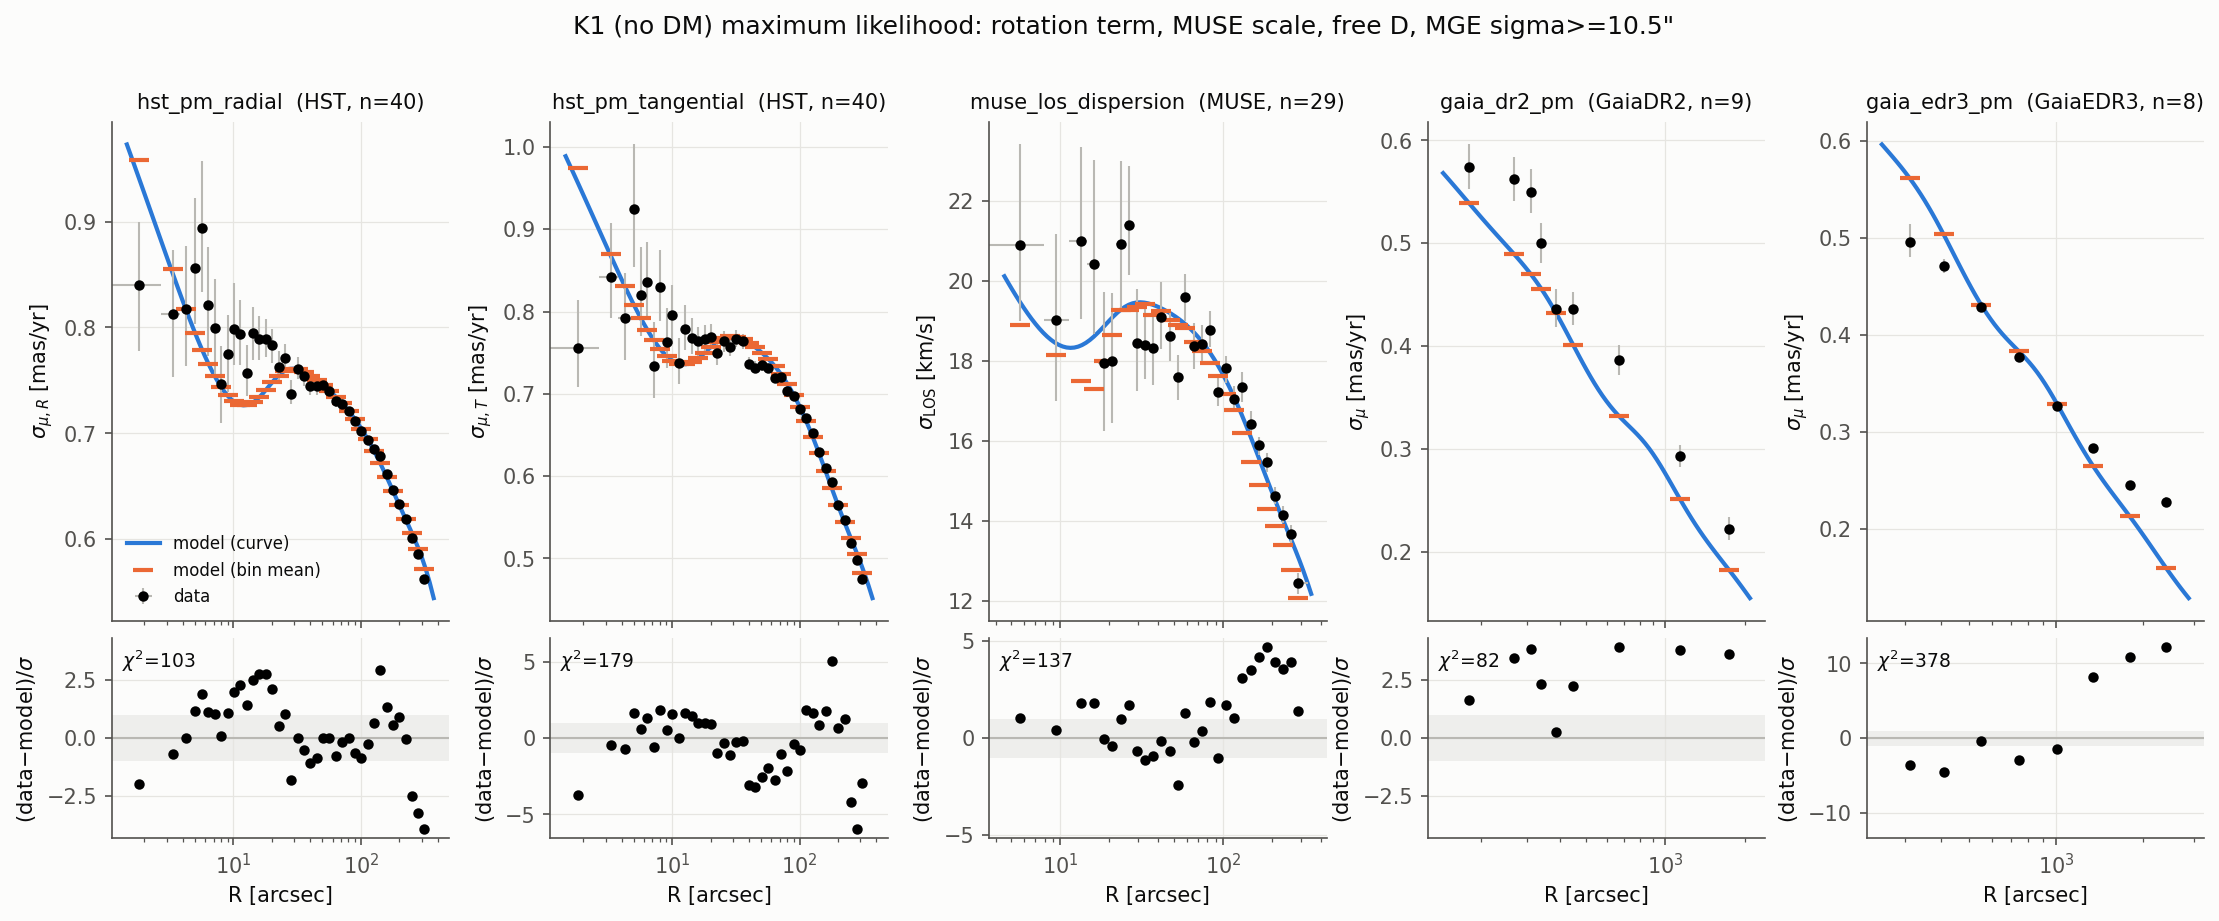
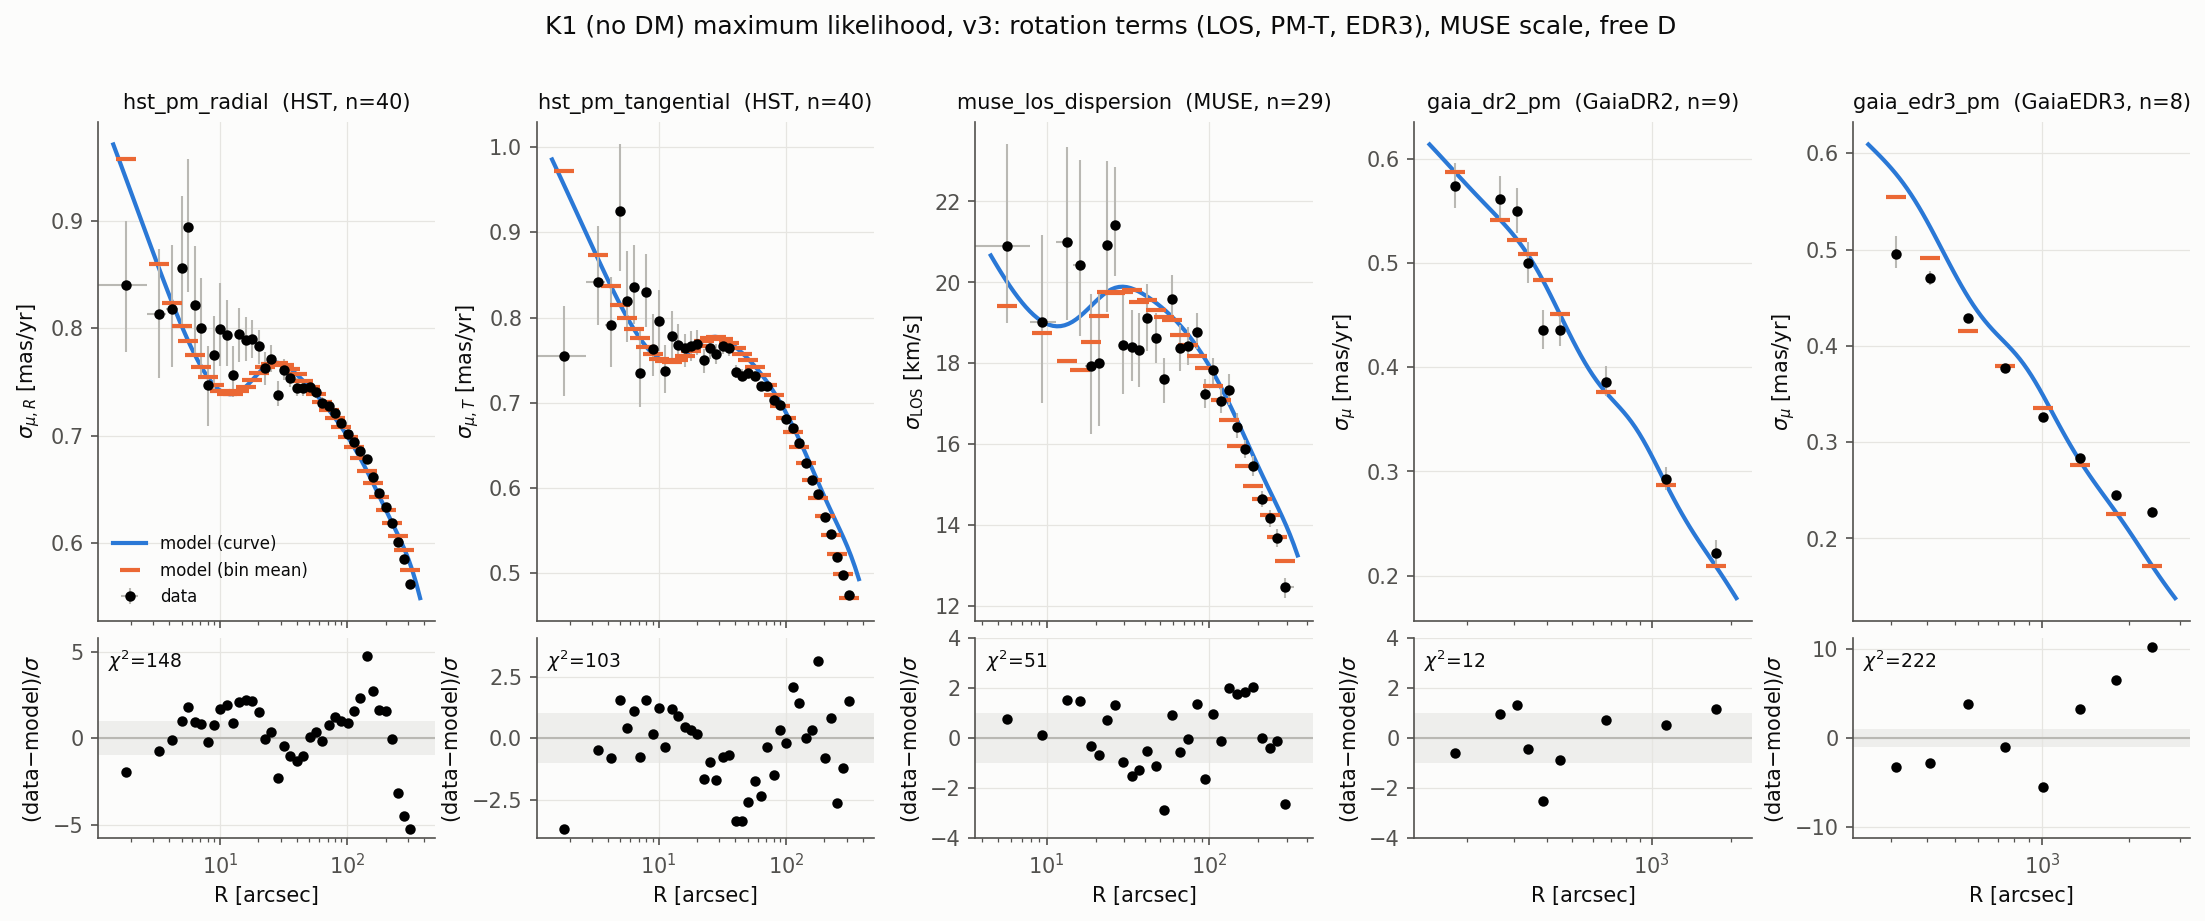
PM rotation terms from the Vasiliev & Baumgardt 2021 rotation curve (HST tangential, Gaia EDR3); posterior-profile plot; journal

diff --git a/src/ocen_dm/kinematics/likelihood.py b/src/ocen_dm/kinematics/likelihood.py
@@ -111,6 +111,20 @@ class BinnedProfile:
 
 
 # ----------------------------------------------------------------- loading ---
+def pm_rotation_curve(r_arcsec: np.ndarray) -> np.ndarray:
+    """Mean tangential proper motion of the rotating cluster at projected radius ``r``.
+
+    Interpolated (linearly, in mas/yr) from the Vasiliev & Baumgardt (2021) EDR3
+    profile of "the rotational PM component" (their readme), i.e. the azimuthally
+    averaged mean tangential PM per annulus: 0 at the centre, peaking at
+    0.25 mas/yr near 430 arcsec, 0.02 mas/yr by 2000 arcsec. Used as ``<mu_T>``;
+    the streaming term ``<mu_T^2>`` >= ``<mu_T>^2`` is therefore a lower bound
+    when the rotation axis is not in the plane of the sky.
+    """
+    t = Table.read(processed_dir() / "kinematics" / "vasiliev2021_ocen_pm_profiles.ecsv")
+    return np.interp(np.asarray(r_arcsec, float), np.asarray(t["r"], float), np.asarray(t["vrot_pm"], float))
+
+
 def _asym(t: Table, base: str) -> tuple[np.ndarray, np.ndarray]:
     return np.asarray(t[f"{base}_err_lo"], float), np.asarray(t[f"{base}_err_hi"], float)
 
@@ -130,10 +144,15 @@ def _omegacat(name: str, value: str, kind: str, shares: tuple[str, ...]) -> Binn
             raise ValueError("los_rotation and los_dispersion products are not on the same bins")
         streaming2 = 0.5 * np.asarray(rot["v_rot"], float) ** 2
         note += "; dispersion about the fitted rotation curve, <vbar^2> = v_rot^2/2 added to the model"
-    elif kind != "los":
-        note += ("; PMs are 'locally corrected' (local mean removed), so the PM rotation term "
-                 "is NOT available from this catalogue (measured mean mu_T = 0 +- 0.005 mas/yr per "
-                 "annulus, 2026-09-17); expected size ~2 per cent in sigma_T at 100-300 arcsec")
+    elif kind == "pmt":
+        # The catalogue PMs are 'locally corrected' (local mean removed; measured mean
+        # mu_T = 0 +- 0.005 mas/yr per annulus, 2026-09-17), so sigma_pmt is a dispersion
+        # about the rotating mean. The rotation itself comes from the Vasiliev &
+        # Baumgardt (2021) EDR3 rotation curve, evaluated at the bin median radius.
+        streaming2 = pm_rotation_curve(np.asarray(t["r_median"], float)) ** 2
+        note += "; <mu_T>^2 from the Vasiliev & Baumgardt 2021 PM rotation curve added to the model"
+    elif kind == "pmr":
+        note += "; radial PM carries no rotation term (rotation is tangential)"
     return BinnedProfile(
         name=f"hst_{name}" if kind != "los" else "muse_los_dispersion", kind=kind,
         r=np.asarray(t["r_median"], float), r_lower=np.asarray(t["r_lower"], float),
@@ -150,8 +169,11 @@ def _baumgardt2019() -> BinnedProfile:
         value=np.asarray(t["sigma_pm"], float), err_lo=np.asarray(t["sigma_pm_err_lo"], float),
         err_hi=np.asarray(t["sigma_pm_err_hi"], float), instrument="GaiaDR2",
         shares_stars_with=("gaia_edr3_pm",),
-        note="mean radius only, no bin edges; ASSUMED to be the 1-D PM dispersion -- verify "
-             "against Baumgardt+ 2019 section 3 before publication",
+        note="mean radius only, no bin edges; ASSUMED to be the 1-D PM dispersion (fitted scale "
+             "~0.9-1.0, not 1.4, supports this); whether it was fitted about a rotating mean is "
+             "unknown from the local files -- NO rotation term applied; if the published values "
+             "include rotation this is correct, otherwise the model is biased high by up to "
+             "vrot^2/2 (~10 per cent of sigma^2 at 700 arcsec)",
     )
 
 
@@ -172,14 +194,17 @@ def _vasiliev2021(r_min_arcsec: float = 0.0, n_max: int | None = 8) -> BinnedPro
         targets = np.geomspace(r[keep][0], r[keep][-1], n_max)
         keep = np.unique(keep[np.abs(np.log(r[keep])[:, None] - np.log(targets)[None, :]).argmin(axis=0)])
     thinned = n_max is not None
+    vrot = np.asarray(t["vrot_pm"], float)[keep]
     return BinnedProfile(
         name="gaia_edr3_pm", kind="pmc", r=r[keep], r_lower=None, r_upper=None,
         value=s50[keep], err_lo=lo[keep], err_hi=hi[keep], instrument="GaiaEDR3",
         shares_stars_with=("gaia_dr2_pm",),
         note=("thinned to %d log-spaced points because " % len(keep) if thinned else "ALL points kept although ")
              + "adjacent grid points come from overlapping samples and are not independent; "
-             "percentile errors; ASSUMED 1-D PM dispersion -- verify against Vasiliev & "
-             "Baumgardt 2021 before publication",
+             "percentile errors; dispersion fitted jointly with rotation (readme: 'PM dispersion' "
+             "and 'PM rotation' profiles), so <mu_T>^2/2 is added to the 1-D model; ASSUMED 1-D "
+             "PM dispersion -- the fitted scale s_GaiaEDR3 ~ 1.05 (not 1.4) supports this",
+        streaming2=0.5 * vrot ** 2,
     )
 
 

diff --git a/src/ocen_dm/plotting/fits.py b/src/ocen_dm/plotting/fits.py
@@ -78,3 +78,43 @@ def plot_profile_fit(problem: FitProblem, x: np.ndarray, path: Path, title: str 
     path = Path(path); path.parent.mkdir(parents=True, exist_ok=True)
     fig.savefig(path, dpi=150, bbox_inches="tight"); plt.close(fig)
     return path
+
+
+def plot_posterior_profiles(run_dirs: dict[str, Path], path: Path, title: str = "") -> Path:
+    """Enclosed-mass, dark fraction and circular-speed bands from ``profiles.npz`` files.
+
+    Parameters
+    ----------
+    run_dirs : dict
+        ``label -> results/fits/<label>`` for each run to overlay (K1, K2 ...).
+    """
+    apply_style()
+    fig, axes = plt.subplots(1, 3, figsize=(13, 4.2))
+    for i, (label, d) in enumerate(run_dirs.items()):
+        prof = np.load(Path(d) / "profiles.npz")
+        r = prof["r"]; color = SERIES[i % len(SERIES)]
+        for ax, key, ylabel, log in ((axes[0], "M_total", r"$M(<r)$ [M$_\odot$]", True),
+                                     (axes[1], "f_dm", r"$f_{\rm DM}(<r)$", False),
+                                     (axes[2], "v_circ", r"$v_{\rm circ}$ [km/s]", False)):
+            lo, mid, hi = np.percentile(prof[key], [16, 50, 84], axis=0)
+            ax.fill_between(r, lo, hi, color=color, alpha=0.25, lw=0)
+            ax.plot(r, mid, color=color, lw=2, label=label)
+            ax.set_xscale("log"); ax.set_xlabel("r [pc]"); ax.set_ylabel(ylabel)
+            if log:
+                ax.set_yscale("log")
+        if "M_dm" in prof.files:
+            lo, mid, hi = np.percentile(prof["M_dm"], [16, 50, 84], axis=0)
+            axes[0].fill_between(r, np.maximum(lo, 1), hi, color=color, alpha=0.12, lw=0, hatch="//")
+            axes[0].plot(r, np.maximum(mid, 1), color=color, lw=1.2, ls="--", label=f"{label}: DM only")
+    axes[0].set_ylim(1e3, None); axes[0].legend(fontsize=8)
+    for R_hst, R_gaia in ((9.0, 53.0),):                      # data extents in pc at 5.43 kpc
+        for ax in axes:
+            ax.axvline(R_hst, color=FIELD_GREY, lw=1, ls=":"); ax.axvline(R_gaia, color=FIELD_GREY, lw=1, ls=":")
+    axes[1].text(9.2, 0.95, "HST/MUSE edge", fontsize=8, color=FIELD_GREY, transform=axes[1].get_xaxis_transform())
+    axes[1].text(55, 0.95, "Gaia edge", fontsize=8, color=FIELD_GREY, transform=axes[1].get_xaxis_transform())
+    if title:
+        fig.suptitle(title)
+    fig.tight_layout()
+    path = Path(path); path.parent.mkdir(parents=True, exist_ok=True)
+    fig.savefig(path, dpi=150, bbox_inches="tight"); plt.close(fig)
+    return path

diff --git a/tests/test_likelihood.py b/tests/test_likelihood.py
@@ -192,6 +192,27 @@ _HAS_DATA = (processed_dir() / "kinematics" / "omegacat_vi_pm_radial.ecsv").exis
 
 
 @pytest.mark.skipif(not _HAS_DATA, reason="processed kinematics not present")
+def test_streaming_terms_on_real_data():
+    from ocen_dm.kinematics.likelihood import pm_rotation_curve
+    data = KinematicData.load(["hst_pm_radial", "hst_pm_tangential", "muse_los_dispersion", "gaia_dr2_pm", "gaia_edr3_pm"],
+                              gaia_edr3_pm={"r_min_arcsec": 300.0})
+    by = {p.name: p for p in data.profiles}
+    assert by["hst_pm_radial"].streaming2 is None and by["gaia_dr2_pm"].streaming2 is None
+    assert by["hst_pm_tangential"].streaming2 is not None and by["muse_los_dispersion"].streaming2 is not None
+    assert by["gaia_edr3_pm"].streaming2 is not None
+    # the rotation curve: zero at the centre, ~0.25 mas/yr near 430", small by 2000"
+    assert pm_rotation_curve(0.0) == pytest.approx(0.0, abs=1e-6)
+    assert 0.2 < pm_rotation_curve(430.0) < 0.3
+    assert pm_rotation_curve(2000.0) < 0.05
+    # tangential term is the square of the curve at the bin median radius
+    p = by["hst_pm_tangential"]
+    np.testing.assert_allclose(p.streaming2, pm_rotation_curve(p.r) ** 2)
+    # at ~300" the term is a > 5 per cent correction to sigma_T^2, so it is not cosmetic
+    i = np.argmin(np.abs(p.r - 300.0))
+    assert p.streaming2[i] / p.value[i] ** 2 > 0.05
+
+
+@pytest.mark.skipif(not _HAS_DATA, reason="processed kinematics not present")
 def test_real_datasets_load_and_gaia_is_thinned():
     data = KinematicData.load(["hst_pm_radial", "hst_pm_tangential", "muse_los_dispersion", "gaia_dr2_pm", "gaia_edr3_pm"],
                               gaia_edr3_pm={"r_min_arcsec": 300.0})

diff --git a/JOURNAL.md b/JOURNAL.md
@@ -991,3 +991,34 @@ on mock data with a 1200-call budget: `tests/test_cli_fit.py` (5.7 s). Launched 
 background: **K1** (11 parameters) and **K2-cored** (13), 400 live points, dlogz 0.5, seed
 42; K2-NFW and the injection runs (`--mock-from results/fits/K1_noDM/ml_x.npy` fitted with
 K2: the no-DM false-positive test of spec §13 item 8) follow once K1 finishes.
+
+### The rotation term, properly: ω Cen's PM rotation is not small
+
+Looking for the definition of the Gaia dispersion profiles in the Vasiliev & Baumgardt
+(2021) readme turned up what the PM streaming term needed: their `profiles/` hold "the
+rotational PM component" alongside the dispersion (percentiles vs radius; our processed
+product already carried it as `vrot_pm`). The mean tangential PM is **0 at the centre,
+0.12 mas/yr at 144″, 0.21 at 288″, peaks at 0.25 mas/yr near 430–580″ and is down to
+0.02 mas/yr by 2000″** — i.e. ⟨μ̄_T⟩²/σ² = 5 % at 144″, 18 % at 288″, 29–30 % at
+430–580″, 25 % at 720″, 10 % at 1150″. Every published dispersion we fit is measured
+about the rotating mean (HST: locally corrected PMs; Vasiliev: joint rotation+dispersion
+fit; MUSE: rotation curve per annulus), so the σ² + v̄² correction is a first-order effect
+in the very region where the K1 model was "falling off too fast".
+
+Implemented (`likelihood.py`): `pm_rotation_curve(R)` interpolates the Vasiliev curve;
+`hst_pm_tangential` gets `streaming2 = ⟨μ̄_T⟩²` at the bin median radius, `gaia_edr3_pm`
+(1-D combined) gets `⟨μ̄_T⟩²/2`, `hst_pm_radial` none (rotation is tangential), MUSE keeps
+v_rot²/2. **Baumgardt+ 2019 (Gaia DR2) is left uncorrected** because whether its
+dispersions were fitted about a rotating mean cannot be settled from the local files; if
+they were, the model is biased high there by up to v_rot²/2 ≈ 10 % of σ² at 700″ — flagged
+in the product note. Using ⟨μ̄_T⟩² for ⟨μ̄_T²⟩ is a lower bound when the rotation axis is
+inclined. On the 1-D question: the fitted Gaia scales are 0.94 (DR2) and 1.04 (EDR3), not
+≈1.4, so both profiles are 1-D dispersions as assumed.
+
+Effect on the K1 maximum likelihood (Nelder–Mead, 10 starts): **lnL −88 → +82.5**, total
+χ² 879 → 536 for 126 points: MUSE 137 → 51/29, Gaia DR2 82 → 12/9, HST tangential
+179 → 103/40; HST radial 148/40 and Gaia EDR3 222/8 remain poor. Parameters moved to
+M★ = 3.35e6, M_rem = 4.5e4 at a_rem = 0.8 pc, M• = 4.0e4, β₀ = −0.14, β∞ = 0.27,
+r_β = 3.4 pc, s_MUSE = 0.98, D = 5.44 kpc. The stale nested runs (no PM term) were killed
+and their outputs deleted; K1, K2-cored and K2-NFW relaunched with the corrected
+likelihood (400 live points, dlogz 0.5, seed 42). Figure: `plots/fit_K1_ml_profiles.png`.
